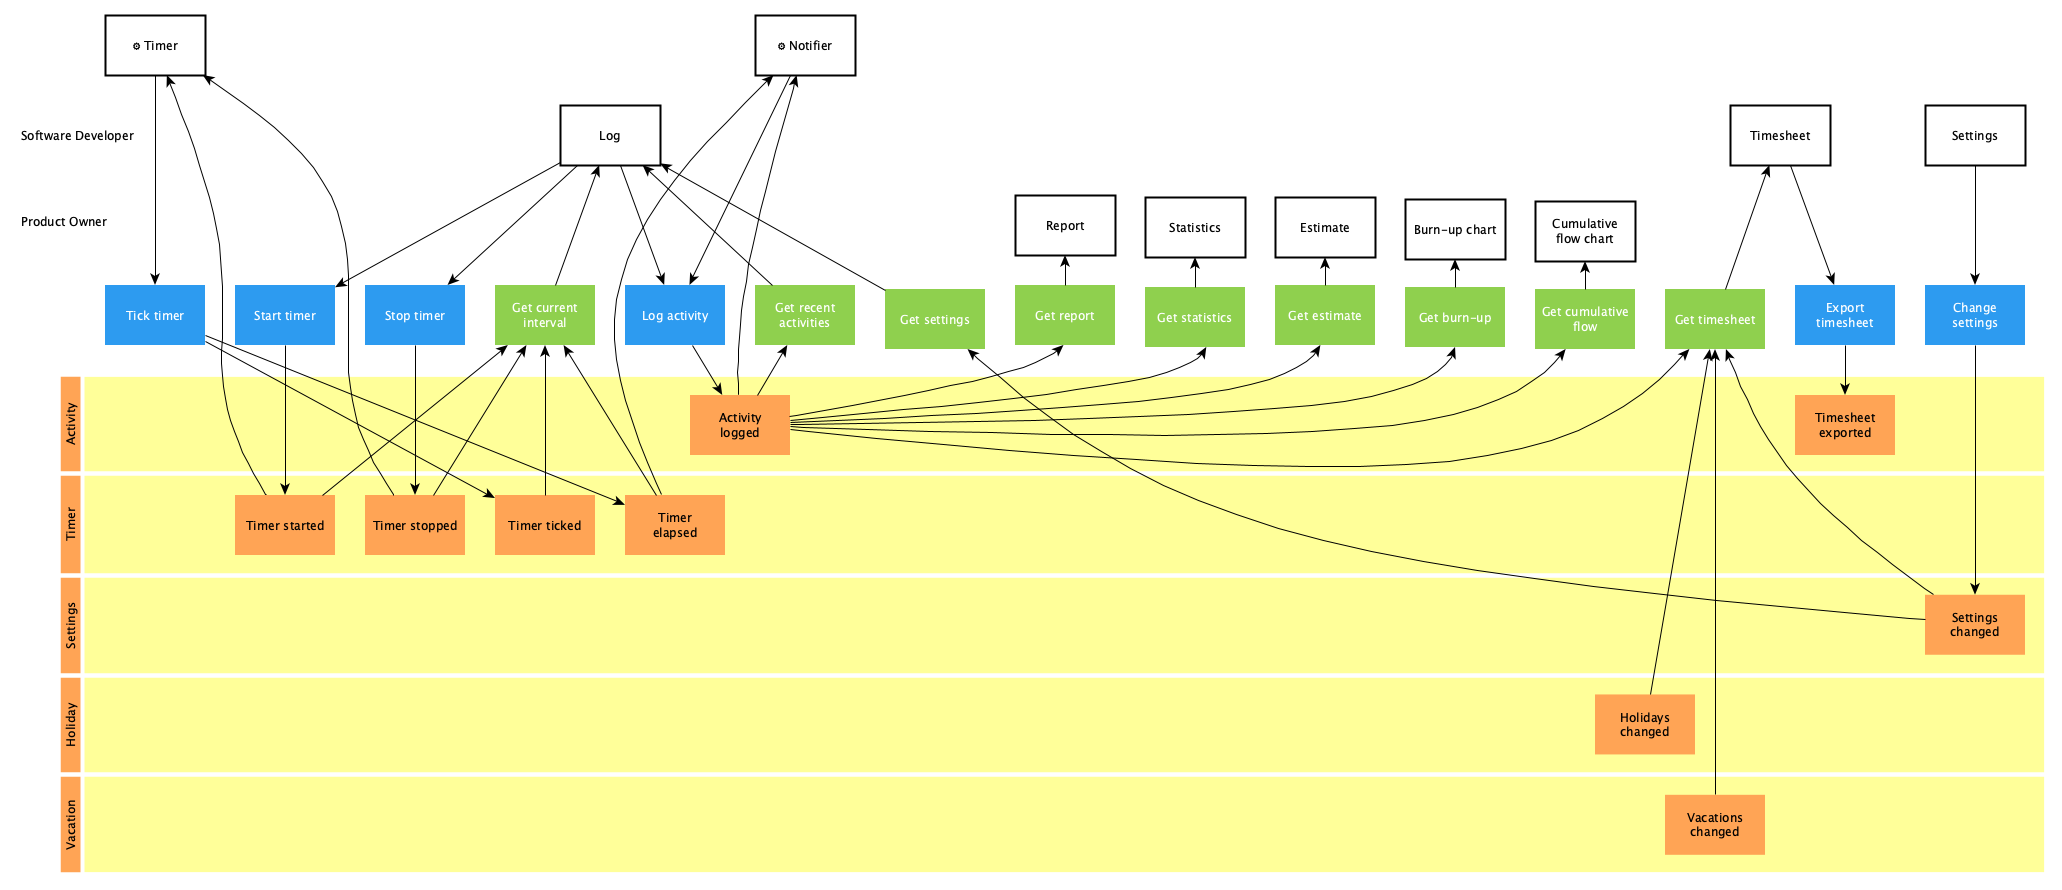
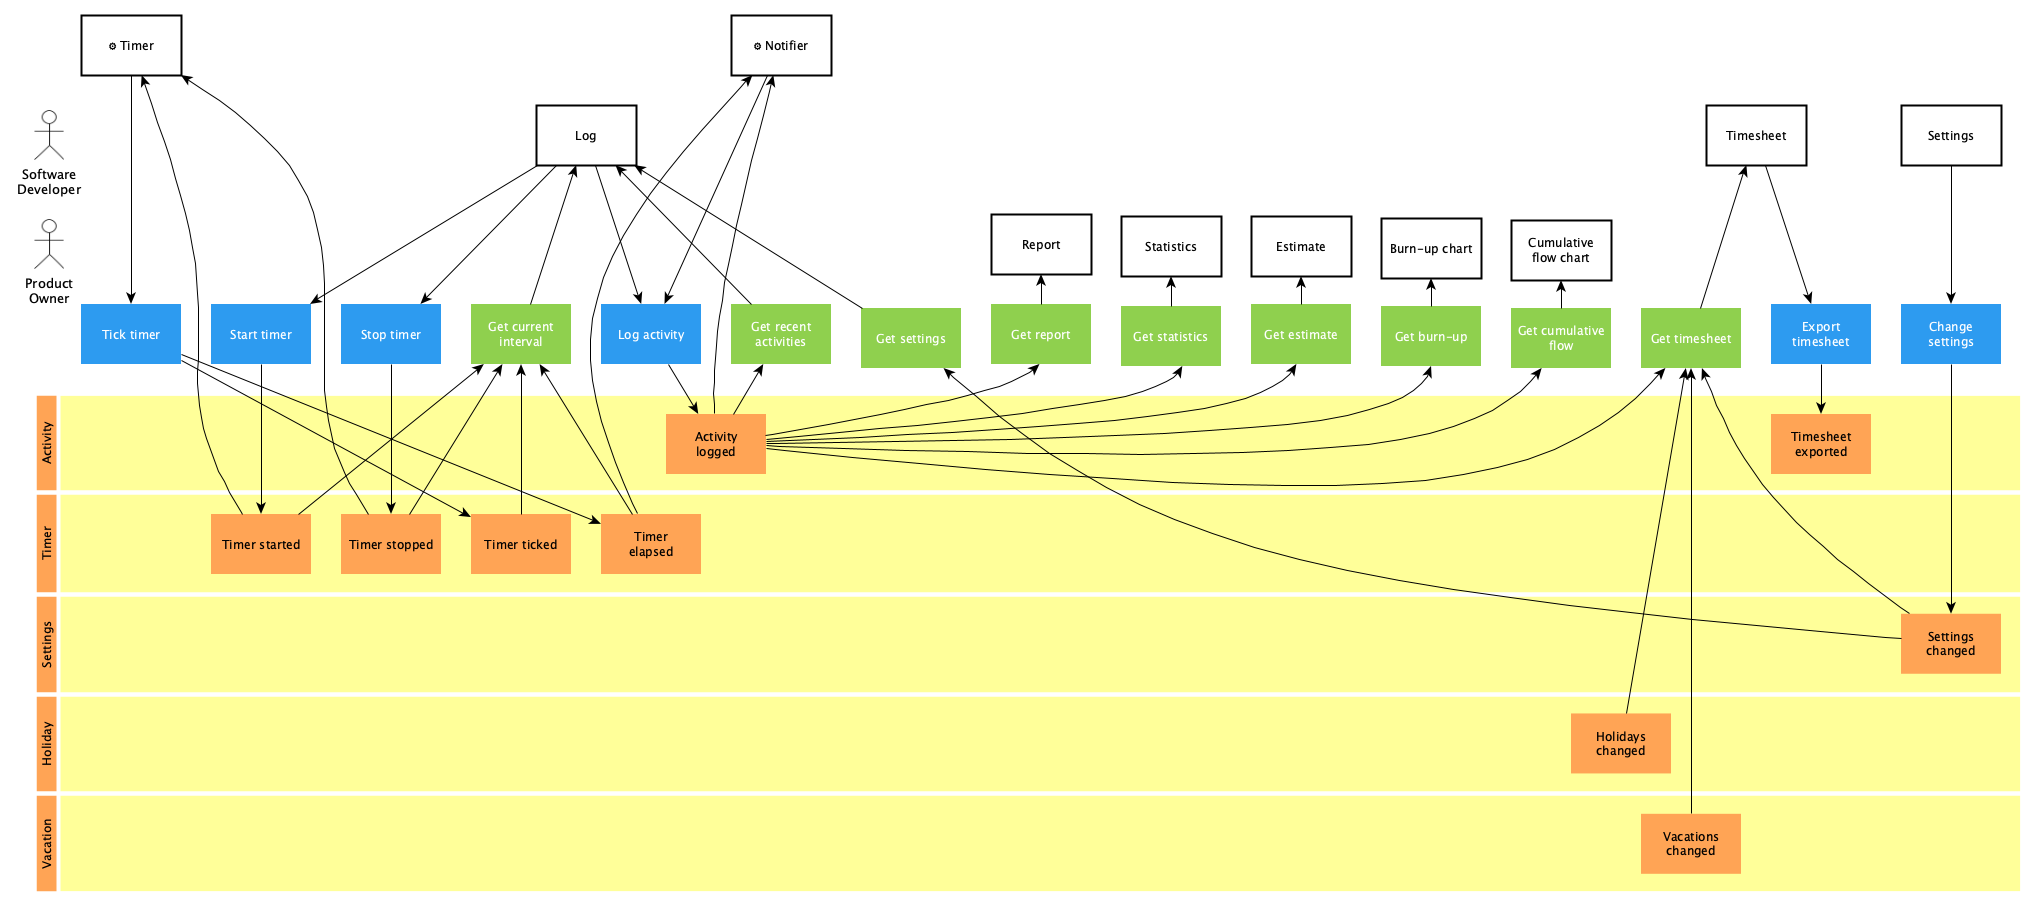
docs: update stories

diff --git a/doc/README.md b/doc/README.md
@@ -90,13 +90,13 @@ Stories marked with ❗are planned for the next release.
 - [x] Compare with capacity
 - [x] Take holidays into account
 - [x] Take vacation into account
-- [ ] Filter tasks by client
-- [ ] Filter tasks by projects
+- [x] Filter tasks by client
+- [x] Filter tasks by projects
 
 ### Export Timesheet
 
 - [x] Export timesheet in Harvest format
-- [ ] Export with team member
+- [x] Export with team member
 
 ## Architecture
 
